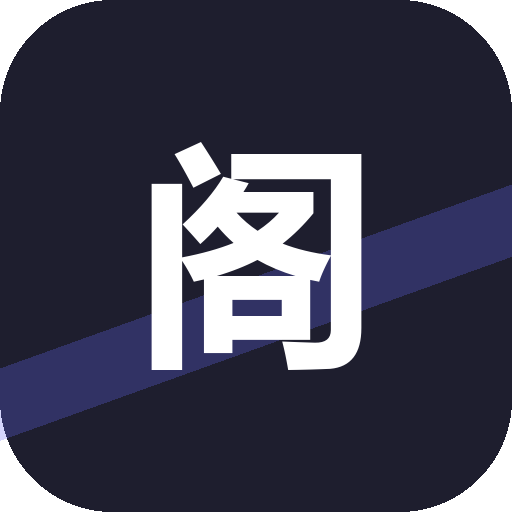
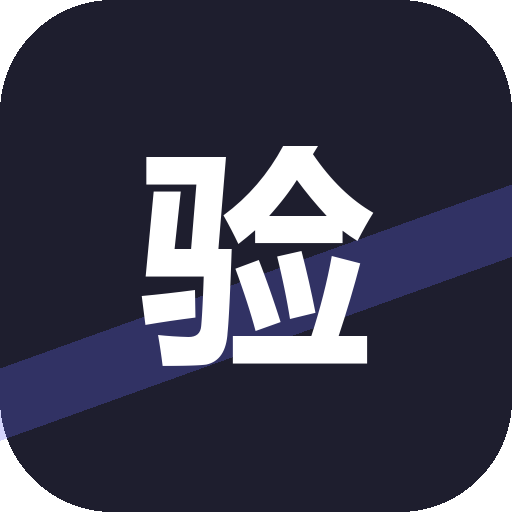
fix(pwa): 图标中心字由「阁」改为「验」；SW 版本升 v3(图标在 SHELL 里缓存优先，不 bump 已装客户端拿不到新图)

Changed region(s): [[0.2812, 0.2812, 0.75, 0.75]]

diff --git a/src/main/resources/static/sw.js b/src/main/resources/static/sw.js
@@ -6,10 +6,11 @@
  *   2. 页面与 API 一律走网络；失败时页面回离线提示，API 直接失败（让前端自己显示错误）。
  *   3. 版本号变了才清旧缓存；不要用 skipWaiting 抢更新，避免用户正写着东西被刷新。
  */
-// v2（2026-11-08）：manifest 改名（去掉「· 后台」后缀）。必须 bump 版本号，
-// 因为 manifest.json 在本 SW 的 SHELL 里是**缓存优先**——不 bump 的话已安装的客户端
-// 会一直读到旧 manifest，改名字等于没改。
-const VERSION = 'exphub-shell-v2';
+// v2（2026-11-08）：manifest 改名（去掉「· 后台」后缀）。
+// v3（2026-11-08）：图标中心字「阁」改「验」。
+// 两次都只能靠 bump 版本号生效 —— manifest 与图标都在下面 SHELL 里是**缓存优先**，
+// 不 bump 的话已安装的客户端会一直读到旧壳资源，改了等于没改。
+const VERSION = 'exphub-shell-v3';
 const SCOPE = self.registration.scope;   // 形如 https://cloudim.club/exphub/
 
 const SHELL = [

diff --git a/tools/gen_pwa_icons.py b/tools/gen_pwa_icons.py
@@ -50,7 +50,9 @@ def rounded_bg(size: int, radius_ratio: float, safe_ratio: float):
     img.alpha_composite(band)
 
     # 中心字：占安全区的比例
-    text = "阁"
+    # 用「验」（经验阁的第二个字）而不是「阁」—— 越哥 2026-11-08 定：
+    # 桌面图标上「阁」字在圆形裁切下辨识度低，且和同屏其他 App 图标区分不开。
+    text = "验"
     font_size = int(size * safe_ratio)
     font = load_font(font_size)
     tmp = ImageDraw.Draw(img)
